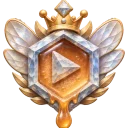
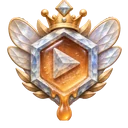
feat(ranks): same-size comb in every league, emblem top-left on tiles and in its own list column
All fifteen emblems are redrawn onto one square canvas with the honeycomb centred and the same
size in every league; wings, crown and laurels make a higher league read larger. Tiles carry the
emblem in the picture's top-left corner, stepping aside when the checkbox shows; the list gives
it a column right after the names so the combs line up, wax included.

diff --git a/apps/web/src/styles.css b/apps/web/src/styles.css
@@ -12747,7 +12747,7 @@ button.team-landing-tile:hover {
   grid-template-columns: subgrid;
 }
 .team-explorer-rows {
-  --ui-table-columns: auto minmax(0, 1fr) auto auto auto auto;
+  --ui-table-columns: auto minmax(0, max-content) minmax(min-content, 1fr) auto auto auto auto;
   grid-template-columns: var(--ui-table-columns);
   column-gap: 0;
 }
@@ -12761,16 +12761,16 @@ button.team-landing-tile:hover {
   grid-column: 2;
 }
 .team-explorer-rows .team-explorer-row-kind {
-  grid-column: 3;
-}
-.team-explorer-rows .team-explorer-row-date {
   grid-column: 4;
 }
-.team-explorer-rows .team-explorer-row-meta {
+.team-explorer-rows .team-explorer-row-date {
   grid-column: 5;
 }
-.team-explorer-rows .team-explorer-row-actions {
+.team-explorer-rows .team-explorer-row-meta {
   grid-column: 6;
+}
+.team-explorer-rows .team-explorer-row-actions {
+  grid-column: 7;
 }
 .team-explorer-rows .ui-table-header {
   padding-inline: var(--space-2);
@@ -18641,10 +18641,33 @@ a.history-subject {
   padding: var(--space-2);
   pointer-events: none;
 }
-/* 059: the honey-league emblem shares the picture's corner box with the companions' badge, on
-   the other side. It is a picture, not a control: presses fall through to the tile. */
+/* 059: the honey-league emblem holds the picture's top-left corner, its comb centred where the
+   checkbox is. It is a picture, not a control: presses fall through to the tile, and it steps
+   aside whenever the checkbox shows — on hover, on focus, in a selection. */
 .creative-rank-tile-layer {
-  justify-content: flex-end;
+  align-items: flex-start;
+  justify-content: flex-start;
+  padding: var(--rank-emblem-tile-inset);
+  transition: opacity var(--dur-control) var(--ease-standard);
+}
+.team-explorer-tile:hover .creative-rank-tile-layer,
+.team-explorer-tile:focus-within .creative-rank-tile-layer,
+.team-explorer-tile.is-selected .creative-rank-tile-layer,
+.team-explorer-tile.is-checked .creative-rank-tile-layer {
+  opacity: 0;
+}
+/* Without hover the checkbox never leaves the corner, so the emblem takes the free one. */
+@media (hover: none) {
+  .creative-rank-tile-layer {
+    align-items: flex-end;
+    justify-content: flex-end;
+  }
+  .team-explorer-tile:hover .creative-rank-tile-layer,
+  .team-explorer-tile:focus-within .creative-rank-tile-layer,
+  .team-explorer-tile.is-selected .creative-rank-tile-layer,
+  .team-explorer-tile.is-checked .creative-rank-tile-layer {
+    opacity: 1;
+  }
 }
 .creative-rank-emblem {
   display: block;
@@ -18664,6 +18687,16 @@ a.history-subject {
 .creative-rank-list-mark {
   display: inline-flex;
   flex: none;
+}
+/* The list gives the emblem its own column right after the names: the name column is as wide as
+   the longest name, so the combs line up in one vertical run beside them, and the free width
+   falls to this column instead. */
+.team-explorer-rows .team-explorer-row-rank {
+  grid-column: 3;
+  display: flex;
+  min-width: 0;
+  align-items: center;
+  padding-inline: var(--space-1);
 }
 .creative-rank-emblem-detail {
   width: var(--rank-emblem-detail);

diff --git a/apps/web/src/team/explorer/ContentList.tsx b/apps/web/src/team/explorer/ContentList.tsx
@@ -29,7 +29,7 @@ import { RowActions, type RowActionsProps } from './RowActions';
 import { TagDot } from './TagDot';
 import { RankEmblem } from '../ranks/RankEmblem';
 import { rankFactsText } from '../ranks/RankFacts';
-import { freshnessOf, leagueOf, type CreativeRank } from '../ranks/creativeRanks';
+import { emptyRank, freshnessOf, leagueOf, type CreativeRank } from '../ranks/creativeRanks';
 import type { CreativeRanksState } from '../ranks/useCreativeRanks';
 
 /** Setting a tag is the space owner's; everyone else is handed nothing. */
@@ -154,6 +154,7 @@ export function ContentList({
             <TableHeaderCell className="team-explorer-row-name">
               {t('teamExplorerSortName')}
             </TableHeaderCell>
+            <TableHeaderCell className="team-explorer-row-rank" />
             <TableHeaderCell className="team-explorer-row-kind">
               {t('teamExplorerPaneKind')}
             </TableHeaderCell>
@@ -189,7 +190,11 @@ export function ContentList({
               companionsOpen={openedCompanions?.has(row.id) ?? false}
               onToggleCompanions={onToggleCompanions}
               nested={Boolean(companionOf(row))}
-              rank={ranks?.known && row.kind === 'video' ? (ranks.ranks.get(row.id) ?? null) : null}
+              rank={
+                ranks?.known && row.kind === 'video'
+                  ? (ranks.ranks.get(row.id) ?? emptyRank(row.id))
+                  : null
+              }
               rankNow={ranks?.now ?? 0}
             />
           ))}
@@ -349,8 +354,12 @@ function Row({
         />
         {/* A fact about the kind, not about this file: an icon that says it on
             hover and focus, rather than a second line under every such row. */}
-        {rank && rank.launchCount > 0 && (
-          // A row is a line to scan: the small emblem for launched videos only, its facts on hover.
+        {reason && <KindNote text={t(reason)} />}
+      </TableCell>
+      {/* Its own column right after the names, so the combs line up down the list; the exact
+          count and date are on hover. */}
+      <TableCell className="team-explorer-row-rank">
+        {rank && (
           <span className="creative-rank-list-mark">
             <RankEmblem
               league={leagueOf(rank.rankCredit)}
@@ -360,7 +369,6 @@ function Row({
             />
           </span>
         )}
-        {reason && <KindNote text={t(reason)} />}
       </TableCell>
       <TableCell className="team-explorer-row-kind">{t(KIND_LABEL[row.kind])}</TableCell>
       <TableCell className="team-explorer-row-date">

diff --git a/apps/web/src/styles/tokens.css b/apps/web/src/styles/tokens.css
@@ -453,11 +453,14 @@
   --icon-plate-row-width: 44px;
   --icon-plate-row-height: 38px;
 
-  /* 059: a creative's honey-league emblem. The pictures share one scale — wings and crown reach
-     past the comb — so every league sits in the same box and nothing jumps when it changes. */
-  --rank-emblem-tile: 48px;
-  --rank-emblem-list: 24px;
-  --rank-emblem-detail: 128px;
+  /* 059: a creative's honey-league emblem. Every picture is the same square with the comb at its
+     centre, the comb a little over half its edge and the same size in all five leagues; wings,
+     crown and laurels fill the rest. So the box is one size, the comb never moves, and a higher
+     league reads larger by what it wears. Tile ≈ 34px comb, list ≈ 17px, detail ≈ 65px. */
+  --rank-emblem-tile: 66px;
+  --rank-emblem-list: 32px;
+  --rank-emblem-detail: 124px;
+  --rank-emblem-tile-inset: 2px;
 }
 
 /* ============================================================

diff --git a/apps/web/src/team/ranks/creativeRanks.ts b/apps/web/src/team/ranks/creativeRanks.ts
@@ -80,11 +80,17 @@ export function demotionTarget(
   return { league: target.id, credit: target.min };
 }
 
-/** The emblem file for a league and state; files sit in `apps/web/public/creative-ranks/`. */
+/**
+ * The emblem file for a league and state; files sit in `apps/web/public/creative-ranks/`.
+ *
+ * Every file is the same square canvas with the honeycomb at its centre and the same size in all
+ * five leagues: a higher league is not a bigger cell, it wears more around it (wings, crown,
+ * laurels), which is what makes it read larger. `size` is the canvas edge in pixels.
+ */
 export function emblemSrc(
   league: CreativeRankLeague,
   freshness: CreativeRankFreshness,
-  size: 64 | 128
+  size: 128 | 256
 ): string {
   const order = CREATIVE_RANK_LEAGUE_IDS.indexOf(league) + 1;
   return `/creative-ranks/${order}_${league}_${freshness}-${size}.webp`;

diff --git a/tests/creative-rank-ui.test.tsx b/tests/creative-rank-ui.test.tsx
@@ -82,7 +82,7 @@ describe('a tile', () => {
   it('shows the league, its state and the exact facts', () => {
     grid({ ranks: new Map([['v1', rank()]]), known: true, now: NOW }, [row('v1', 'clip.mp4')]);
     const emblem = screen.getByRole('img', { name: 'Rank: Gold, fresh' });
-    expect(emblem.getAttribute('src')).toBe('/creative-ranks/4_gold_fresh-64.webp');
+    expect(emblem.getAttribute('src')).toBe('/creative-ranks/4_gold_fresh-128.webp');
     expect(screen.getByText('16× · 3 days ago')).toBeTruthy();
   });
 

diff --git a/tests/creative-ranks.test.ts b/tests/creative-ranks.test.ts
@@ -85,8 +85,8 @@ describe('demotion', () => {
 
 describe('emblems', () => {
   it('names the file by league order, league and state', () => {
-    expect(emblemSrc('gold', 'dusty', 64)).toBe('/creative-ranks/4_gold_dusty-64.webp');
-    expect(emblemSrc('wax', 'fresh', 128)).toBe('/creative-ranks/1_wax_fresh-128.webp');
+    expect(emblemSrc('gold', 'dusty', 128)).toBe('/creative-ranks/4_gold_dusty-128.webp');
+    expect(emblemSrc('wax', 'fresh', 256)).toBe('/creative-ranks/1_wax_fresh-256.webp');
   });
 });
 

diff --git a/apps/web/src/team/ranks/RankEmblem.tsx b/apps/web/src/team/ranks/RankEmblem.tsx
@@ -40,7 +40,7 @@ export function RankEmblem({
   return (
     <img
       className={`creative-rank-emblem creative-rank-emblem-${size}`}
-      src={emblemSrc(league, freshness, size === 'detail' ? 128 : 64)}
+      src={emblemSrc(league, freshness, size === 'detail' ? 256 : 128)}
       alt={label}
       title={facts ? `${label} · ${facts}` : label}
       draggable={false}

diff --git a/specs/059-creative-ranks/contracts/ui.md b/specs/059-creative-ranks/contracts/ui.md
@@ -13,7 +13,7 @@
 ## Компоненти (`apps/web/src/team/ranks/`)
 
 - `RankEmblem({ league, freshness, size: 'tile' | 'list' | 'detail' })` — `<img>` з
-  `/creative-ranks/{n}_{league}_{freshness}-{64|128}.webp`, фіксовані `width/height` з токенів розміру,
+  `/creative-ranks/{n}_{league}_{freshness}-{128|256}.webp`, фіксовані `width/height` з токенів розміру,
   `alt` = «Ліга: Золото, свіжий». Розмір через клас, не інлайн-стиль.
 - `RankFacts({ rank })` — `74× · 2 дн тому` / «ще не запускали»; відносна дата через наявний форматер `format.ts`.
 - `MaterialRank({ teamId, materialId, revision })` — слот детального перегляду: емблема 128, назва ліги,
@@ -31,4 +31,13 @@
 ## Стилі
 
 Лише токени з `styles/tokens.css`; нові розміри емблеми — токени `--rank-emblem-tile|list|detail`
-у token-шарі. Позиція на плитці — правий низ `.team-explorer-tile-badge-layer`.
+у token-шарі.
+
+Геометрія (за макетом власника 2026-11-18): усі 15 файлів — один квадрат, сота в центрі й однакова
+в усіх лігах (≈ 52 % сторони); вищу лігу роблять більшою лише крила, корона, лаври. Сота: плитка ≈ 34 px,
+список ≈ 17 px, детальний перегляд ≈ 65 px.
+
+- Плитка — лівий верхній кут картинки, сота по центру там, де чекбокс; під hover/focus/вибором емблема
+  ховається й поступається чекбоксу. Без hover (тач) — правий нижній кут.
+- Список — окрема колонка одразу після назв: колонка назв завширшки з найдовшу назву, тож соти стоять
+  однією вертикаллю; емблема в кожного відео, включно з Воском; точні факти — у підказці.
